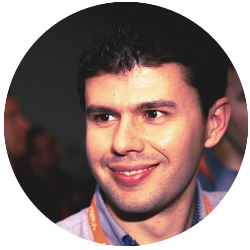
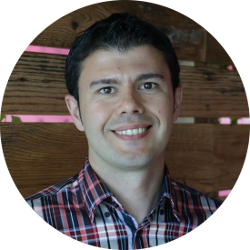
Replaced photo. Added Norway

diff --git a/index.php b/index.php
@@ -80,7 +80,7 @@
                     <div class="intro-text">
                         <span class="name">Arturo Calvo</span>
                         <hr class="star-light">
-                        <span class="skills">Software Engineer &amp; Internet Entrepreneur</span>
+                        <span class="skills">Software Engineer &amp; Digital Entrepreneur</span>
                     </div>
                 </div>
             </div>
@@ -99,10 +99,10 @@
             <div class="row">
                 <div class="col-lg-4 col-lg-offset-2">
                     <p>I am a software professional with over ten years of experience working in startups, corporations and academia, from development to management roles.</p> <p>Early in my career I worked as a <b>Software Engineer</b> and <b>IT Business Analyst</b> in Ireland and Spain.</p> <p>In 2012 I quit my job and set up <i>Greenweaving</i>, a web app to generate interactive diagrams on the fly.</p> <p>A few months later I co-founded <i>iFlikeU</i>, an app to find matches safely among Facebook friends.</p> <p>My third startup was <a href="http://www.dialective.com" target="_new">Dialective</a>, a web app to easily generate online catalogs for SMEs and share them with the world. Dialective raised $180K in funding and won multiple awards around Europe.</p> <p>In 2014 I started working as a <b>Senior Research Software Architect</b> at <a href="http://www.adaptcentre.ie" target="_new">ADAPT Centre</a>, a world-class innovation hub based in Trinity College Dublin, where I led the development of research projects in the areas of <b>Machine Learning</b>, <b>Team Collaboration</b> and <b>Ethics</b>.</p>
-                    <p>After two enriching years in academia, joined <a href="https://www.accenture.com/ie-en/careers/dublin-innovation-centre" target="_new">Accenture - The Dock</a> as a <b>Software Development Associate Manager</b>, where I am leading the development of large cross-industry projects that apply cutting-edge research on <b>Data Science</b> to different verticals.</p>
+                    <p>After two enriching years in academia, joined <a href="https://www.accenture.com/no-en/" target="_new">Accenture</a> as a <b>Digital Business Integration Associate Manager</b>, first in Dublin (Ireland) and later in Oslo (Norway), where I am leading the architecting and development of large cross-industry projects.</p>
                 </div>
                 <div class="col-lg-4">
-                    <p>For 2.5 years I held a part-time <b>CTO</b> position in <a href="https://www.sedicii.com" target="_new">Sedicii</a>, a Word Economic Forum awarded startup that provides identity verification services, eliminating the need to transmit sensitive data over the network.</p> <p>In the past I also founded the <a href="http://xchangeup.com" target="_new">XchangeUp</a> (P2P currency exchange platform), <a href="https://www.ethicscanvas.org" target="_new">Ethics Canvas</a> (collaborative tool to brainstorm about ethical impacts of digital projects), the <a href="http://www.srsireland.org" target="_new">Spanish Research Society in Ireland</a> and the <a href="https://www.meetup.com/Machine-Learning-Dublin/" target="_new">Machine Learning Dublin</a> meetup group (+2000 members). <p>Passionate about technology and entrepreneurship, I am <b>investor</b>, <b>advisor</b> and <b>mentor</b> in multiple startups and innovation programs.</p> <p>In addition, I have <b>Entrepreneurship</b> and <b>Business Management</b> certifications from Dublin Institute of Technology and Universidad a Distancia de Madrid respectively.</p> <p>My goal is to keep working on cutting-edge projects where I can have a clear impact, in an inspiring environment anywhere in the world. <a href="#contact">Ping me</a> if you want to have a chat!</p>
+                    <p>For 2.5 years I held a part-time <b>CTO</b> position in <a href="https://www.sedicii.com" target="_new">Sedicii</a>, a Word Economic Forum awarded startup that provides identity verification services, eliminating the need to transmit sensitive data over the network.</p> <p>In the past I also founded the <a href="https://www.ethicscanvas.org" target="_new">Ethics Canvas</a> (collaborative tool to brainstorm about ethical impacts of digital projects), the <a href="http://www.srsireland.org" target="_new">Spanish Research Society in Ireland</a> and the <a href="https://www.meetup.com/Machine-Learning-Dublin/" target="_new">Machine Learning Dublin</a> meetup group (+2500 members). <p>Passionate about technology and entrepreneurship, I am <b>investor</b>, <b>advisor</b> and <b>mentor</b> in multiple startups and innovation programs.</p> <p>In addition, I have <b>Entrepreneurship</b> and <b>Business Management</b> certifications from Dublin Institute of Technology and Universidad a Distancia de Madrid respectively.</p> <p>My goal is to keep working on cutting-edge projects where I can have a clear impact, in an inspiring environment anywhere in the world. <a href="#contact">Ping me</a> if you want to have a chat!</p>
                 </div>
             </div>
         </div>
@@ -320,19 +320,19 @@
                 <div class="row">
                     <div class="col-lg-8 col-lg-offset-2">
                         <div class="modal-body">
-                            <h2>Accenture - The Dock</h2>
+                            <h2>Accenture</h2>
                             <hr class="star-primary">
-                            <p style="text-align: justify;"><b><a href="https://www.accenture.com/ie-en/blogs/blogs-centre-innovation-dublin-default" target="_new">Accenture - The Dock</a></b> is a multidisciplinary research and incubation hub, developing solutions to some of society’s most complex issues. We help clients unlock their potential through an entirely new approach to innovation, shaped by design-led experimentation and co-creation, and powered by new and emerging technology.</p>
-                            <p style="text-align: justify;">As a <b>Software Development Associate Manager</b> at Accenture - The Dock, I am leading the development of large cross-industry projects that apply cutting-edge research on <b>Data Science</b> to different verticals.</p>
+                            <p style="text-align: justify;"><b><a href="https://www.accenture.com/ie-en/blogs/blogs-centre-innovation-dublin-default" target="_new">Accenture - The Dock</a></b> is a multidisciplinary research and incubation hub, developing solutions to some of society’s most complex issues. We help clients unlock their potential through an entirely new approach to innovation, shaped by design-led experimentation and co-creation, and powered by new and emerging technology. As a <b>Software Development Associate Manager</b> at Accenture - The Dock (10-months), I was architecting and developing large cross-industry projects that apply cutting-edge research on <b>Data Science</b> to different verticals.</p>
+                            <p style="text-align: justify;">In August 2017 I voluntarely relocated to <b><a href="https://www.accenture.com/no-en/" target="_new">Accenture Norway</a></b>, where I hold a <b>Digital Business Integration Associate Manager</b> position, leading the architecting and development of innovative solutions to complex problems for our clients.</p>
                             <ul class="list-inline item-details">
                                 <li>Role:
-                                    <strong>Software Development Associate Manager</strong>
+                                    <strong>Digital Business Integration Associate Manager</strong>
                                 </li>
                                 <li>Dates:
                                     <strong>Nov 2016 - Present</strong>
                                 </li>
                                 <li>Location:
-                                    <strong>Dublin (Ireland)</strong>
+                                    <strong>Oslo (Norway)</strong>
                                 </li>
                             </ul>
                             <button type="button" class="btn btn-default" data-dismiss="modal"><i class="fa fa-times"></i> Close</button>
